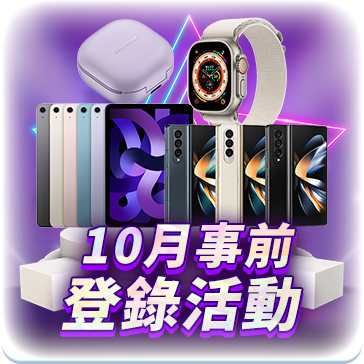
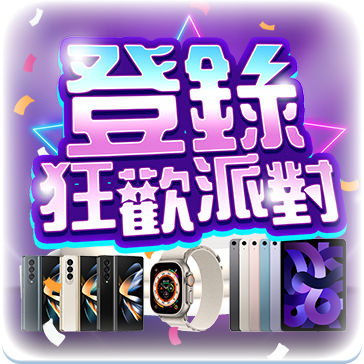
10月事前BN優化

diff --git a/index.html b/index.html
@@ -415,17 +415,17 @@
                             <p class="paintingWork-content-p">
                                 此區收錄4個遊戲事前登錄活動網頁皆為實際上線網頁，網頁裡的遊戲頭像非本人製作，<br/>僅供還原當時作品使用，活動連結不會跳轉出去，表單不會送出，特此說明:
                             </p>
-                            <div class="row row-cols-2 row-cols-lg-4 col-mb-30">
-                                <div class="col text-center animated-l">
+                            <div class="row row-cols-1 row-cols-lg-3 col-mb-30">
+                                <!-- <div class="col text-center animated-l">
                                     <a class="webDesign-list-a anim-sparkle" href="https://heyviehuang.github.io/202303preregister/" target="_blank">
                                         <img class="img-fluid mb-2 rounded" src="./img/img-webDesign-list-btn11.png" alt="Image">
                                     </a>
                                     <h5 class="webName mb-0 mt-3">《海底掏金趣》</h5>
                                     <p class="webDesign-content-p mb-0 text-center">2023.03 以海洋、金幣與鯨魚為海底掏金的主視覺。</p>
-                                </div>
+                                </div> -->
                                 <div class="col text-center mt-lg-5 animated-b">
                                     <a class="webDesign-list-a anim-sparkle" href="https://heyviehuang.github.io/202301preregister/" target="_blank">
-                                        <img class="img-fluid mb-2 rounded" src="./img/img-webDesign-list-btn12.png" alt="Image">
+                                        <img class=" img-fluid mb-2 rounded" src="./img/img-webDesign-list-btn12.png" alt="Image">
                                     </a>
                                     <h5 class="webName mb-0 mt-3">《過年搶頭香》</h5>
                                     <p class="webDesign-content-p mb-0 text-center">2023.01 以紅色與橘色呈現過年的視覺，旁邊是MyCard吉祥物的手。</p>
@@ -439,7 +439,7 @@
                                 </div>
                                 <div class="col text-center mt-lg-5 animated-r">
                                     <a class="webDesign-list-a anim-sparkle" href="https://heyviehuang.github.io/202210preregister/" target="_blank">
-                                        <img class="img-fluid mb-2 rounded" src="./img/img-webDesign-list-btn14.png" alt="Image">
+                                        <img class="img-fluid mb-2 rounded" src="./img/img-webDesign-list-btn14.png?v=20230528" alt="Image">
                                     </a>
                                     <h5 class="webName mb-0 mt-3">《狂歡派對》</h5>
                                     <p class="webDesign-content-p mb-0 text-center">2022.10 以派對與閃光燈閃爍的視覺營造歡樂的氛圍。</p>

diff --git a/css/style.css b/css/style.css
@@ -310,6 +310,10 @@ button {
     -webkit-filter: drop-shadow(0 1px 6px #ffffff);
 }
 
+.webDesign-list-a img {
+    margin: 0 auto;
+}
+
 @media (max-width:768px) {
     .wrap {
         padding: 0 8px;
